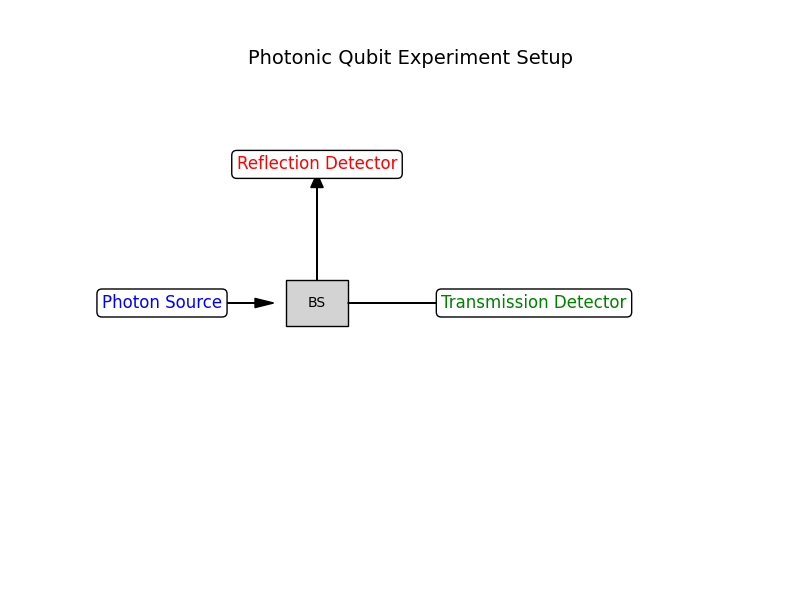
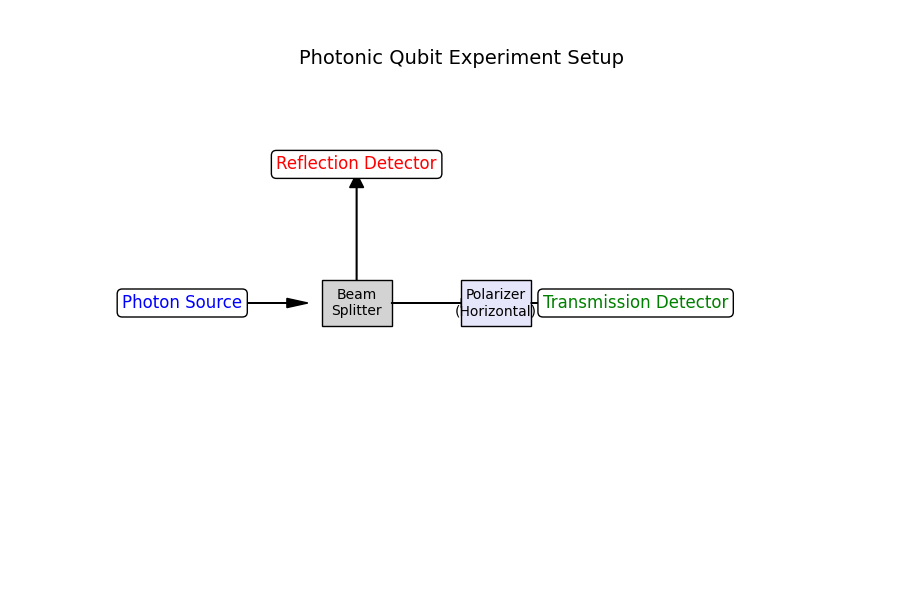
add polarizer to photonic qubit experiment

diff --git a/psikit/experiments.py b/psikit/experiments.py
@@ -14,17 +14,53 @@ def beam_splitter_gate():
                                              [-1, 1]])
     return QuantumGate(bs_matrix)
 
+def apply_polarizer(state, orientation='horizontal'):
+    """
+    Simulates the effect of a polarizer on the photonic qubit state.
+    The state is assumed to be in a 2-dimensional polarization basis:
+      - |0⟩ represents horizontal polarization.
+      - |1⟩ represents vertical polarization.
+      
+    For a 'horizontal' polarizer, only the horizontal component is passed.
+    That is, the polarizer operator is:
+    
+        P_horizontal = |0><0| = [[1, 0],
+                                  [0, 0]]
+    
+    The function applies this operator to the state and returns a new normalized state.
+    If the photon is completely blocked (norm zero), the state remains zero.
+    """
+    if orientation.lower() == 'horizontal':
+        polarizer_operator = np.array([[1, 0],
+                                       [0, 0]], dtype=complex)
+    elif orientation.lower() == 'vertical':
+        polarizer_operator = np.array([[0, 0],
+                                       [0, 1]], dtype=complex)
+    else:
+        raise ValueError("Orientation not supported. Use 'horizontal' or 'vertical'.")
+    
+    new_vector = np.dot(polarizer_operator, state.vector)
+    # Create a new QuantumState (this will normalize automatically)
+    new_state = state.__class__(new_vector)
+    return new_state
+
 def simulate_photonic_qubit_experiment():
     """
     Simulate a photonic qubit experiment:
-    1. Prepare the initial photonic state |0⟩.
-    2. Apply the beam splitter gate to create a superposition.
-    3. Perform a measurement to simulate state collapse into either the
-       'Transmission' (|0⟩) or 'Reflection' (|1⟩) path.
+    1. Prepare the initial photonic state |0⟩ (horizontal polarization).
+    2. Apply the beam splitter gate to create a superposition of paths.
+    3. Apply a polarizer (set to horizontal) on the transmission branch.
+    4. Perform a measurement to simulate state collapse.
+    
+    In this simulation, the two basis states represent:
+      - |0⟩: Transmission (and horizontal polarization)
+      - |1⟩: Reflection (vertical polarization)
+    
+    The polarizer will filter out the vertical component in the transmission branch.
     
     Returns the measurement outcome.
     """
-    # Step 1: Initialize state |0⟩ (e.g., representing horizontal polarization)
+    # Step 1: Initialize state |0⟩ (horizontal polarization)
     state = QuantumState([1, 0])
     print("Initial state (|0⟩):")
     print(state.vector)
@@ -35,13 +71,22 @@ def simulate_photonic_qubit_experiment():
     print("\nState after Beam Splitter (superposition of paths):")
     print(state.vector)
     
-    # Step 3: Define projectors for the two paths
+    # Step 3: Apply polarizer (horizontal) to simulate filtering on the transmission branch.
+    # In our simple model, the polarizer operator is |0><0|, so applying it will remove any
+    # vertical component. (If the photon is entirely vertical, it will be blocked.)
+    print("\nApplying horizontal polarizer...")
+    state = apply_polarizer(state, orientation='horizontal')
+    print("State after polarizer:")
+    print(state.vector)
+    
+    # Step 4: Define projectors for measurement:
+    # - Transmission is represented by |0⟩.
+    # - Reflection is represented by |1⟩.
     proj_transmission = np.array([[1, 0],
                                   [0, 0]], dtype=complex)
     proj_reflection   = np.array([[0, 0],
                                   [0, 1]], dtype=complex)
     
-    # Perform measurement
     outcome = Measurement.measure(state, [
         ("Transmission", proj_transmission),
         ("Reflection", proj_reflection)
@@ -59,34 +104,43 @@ def plot_experiment_diagram():
       - Photon Source on the left.
       - Beam Splitter (as a gray box) in the center.
       - Two output paths:
-          * The horizontal (rightward) path labeled 'Transmission Detector'.
-          * The vertical upward path labeled 'Reflection Detector'.
+          * Transmission path: includes a polarizer block (set to Horizontal)
+            before reaching the Transmission Detector.
+          * Reflection path: goes directly to the Reflection Detector.
           
-    This function uses Matplotlib to create a simple schematic diagram.
+    This function uses Matplotlib to create a schematic diagram.
     """
     import matplotlib.pyplot as plt
 
-    fig, ax = plt.subplots(figsize=(8, 6))
+    fig, ax = plt.subplots(figsize=(9, 6))
 
     # Draw the Photon Source
     ax.annotate("Photon Source", xy=(0.1, 0.5), xytext=(0.1, 0.5),
                 ha='center', va='center', fontsize=12, color='blue',
                 bbox=dict(boxstyle="round", fc="w"))
-    # Draw arrow from Photon Source to Beam Splitter
+
+    # Arrow from Photon Source to Beam Splitter
     ax.arrow(0.15, 0.5, 0.1, 0, head_width=0.02, head_length=0.03, fc='k', ec='k')
 
     # Draw the Beam Splitter as a rectangle
     bs_rect = plt.Rectangle((0.3, 0.45), 0.1, 0.1, fc='lightgray', ec='black')
     ax.add_patch(bs_rect)
-    ax.text(0.35, 0.5, "BS", ha='center', va='center', fontsize=10)
+    ax.text(0.35, 0.5, "Beam\nSplitter", ha='center', va='center', fontsize=10)
 
-    # Draw the Transmission path (horizontal rightwards)
-    ax.arrow(0.4, 0.5, 0.25, 0, head_width=0.02, head_length=0.03, fc='k', ec='k')
-    ax.annotate("Transmission Detector", xy=(0.7, 0.5), xytext=(0.7, 0.5),
+    # Transmission path (horizontal to the right)
+    # Arrow from Beam Splitter to Polarizer
+    ax.arrow(0.4, 0.5, 0.1, 0, head_width=0.02, head_length=0.03, fc='k', ec='k')
+    # Draw the Polarizer as a rectangle on the transmission path
+    polarizer_rect = plt.Rectangle((0.5, 0.45), 0.1, 0.1, fc='lavender', ec='black')
+    ax.add_patch(polarizer_rect)
+    ax.text(0.55, 0.5, "Polarizer\n(Horizontal)", ha='center', va='center', fontsize=10)
+    # Arrow from Polarizer to Transmission Detector
+    ax.arrow(0.6, 0.5, 0.1, 0, head_width=0.02, head_length=0.03, fc='k', ec='k')
+    ax.annotate("Transmission Detector", xy=(0.75, 0.5), xytext=(0.75, 0.5),
                 ha='center', va='center', fontsize=12, color='green',
                 bbox=dict(boxstyle="round", fc="w"))
 
-    # Draw the Reflection path (vertical upwards from the beam splitter)
+    # Reflection path (vertical upward from Beam Splitter)
     ax.arrow(0.35, 0.55, 0, 0.2, head_width=0.02, head_length=0.03, fc='k', ec='k')
     ax.annotate("Reflection Detector", xy=(0.35, 0.8), xytext=(0.35, 0.8),
                 ha='center', va='center', fontsize=12, color='red',
@@ -99,7 +153,7 @@ def plot_experiment_diagram():
     plt.title("Photonic Qubit Experiment Setup", fontsize=14)
     plt.show()
 
-# For quick testing, you can call the diagram plot when the module is run directly.
+# For quick testing, you can call the simulation and diagram plot when the module is run directly.
 if __name__ == "__main__":
     simulate_photonic_qubit_experiment()
     plot_experiment_diagram()
